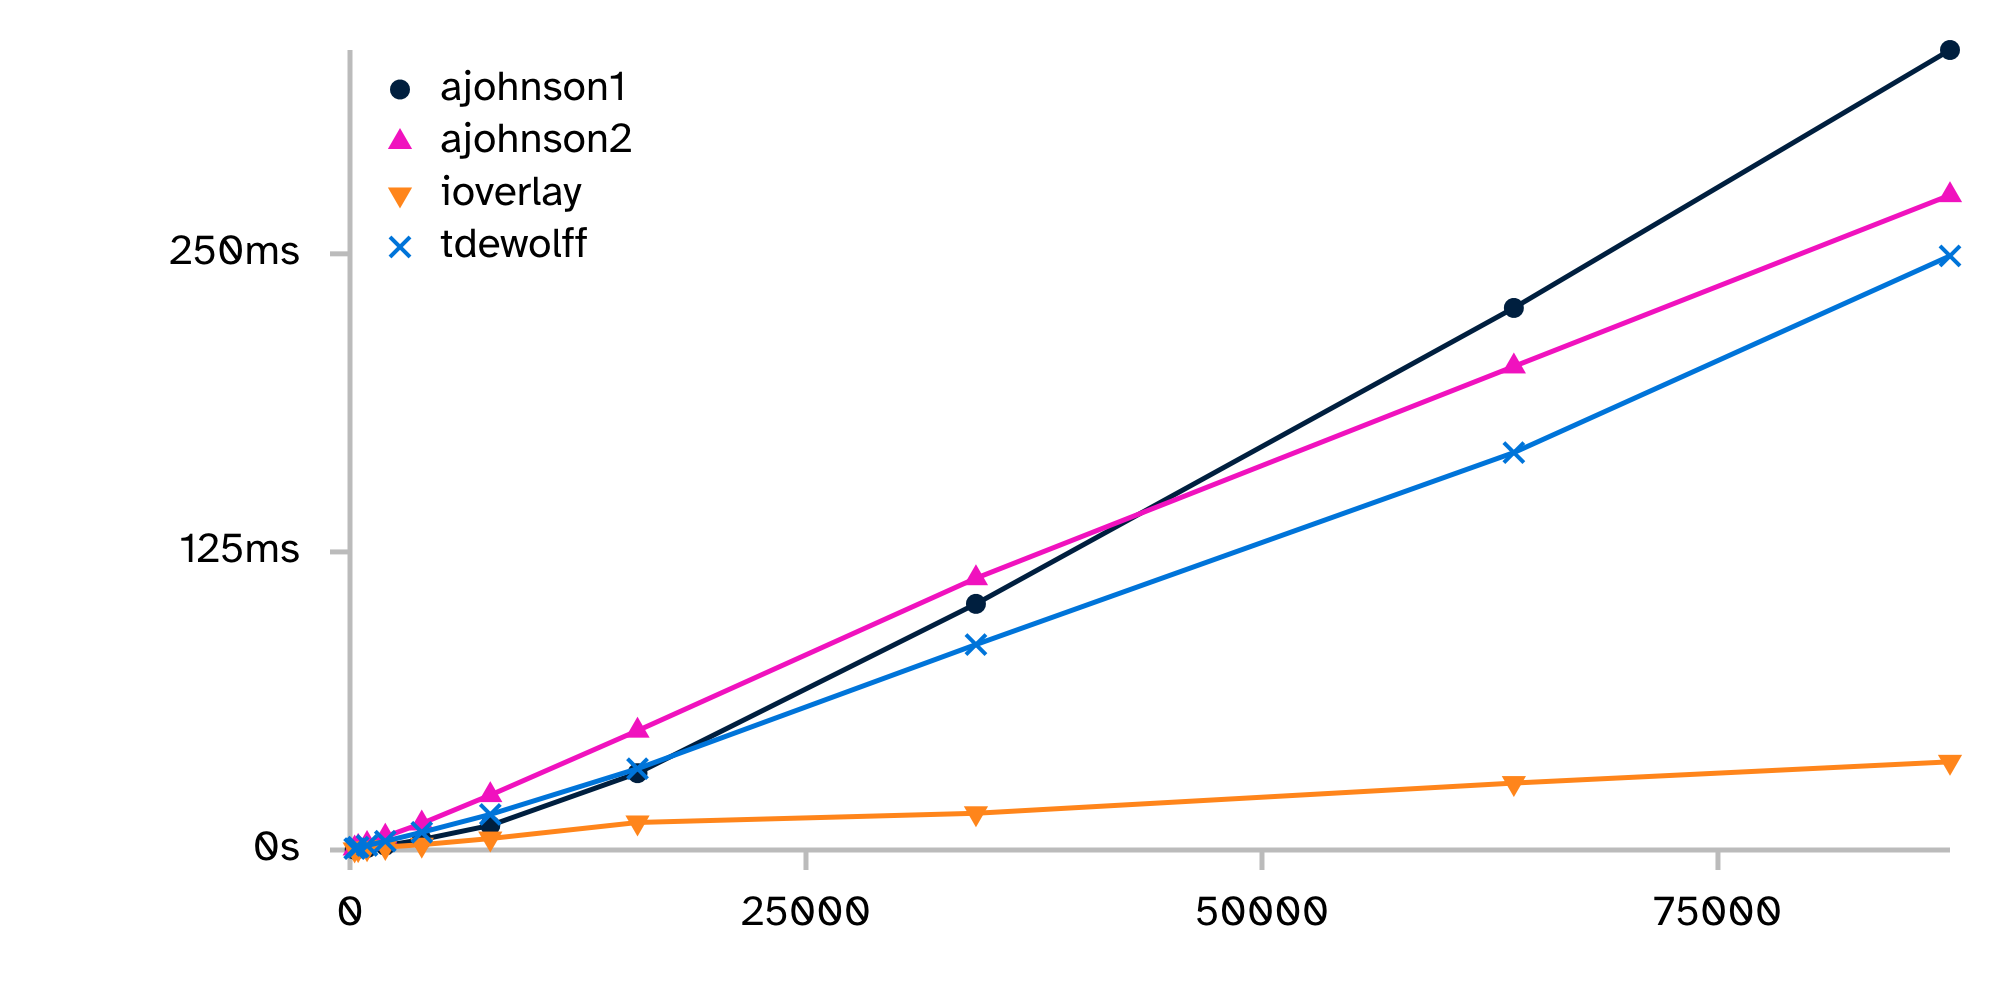
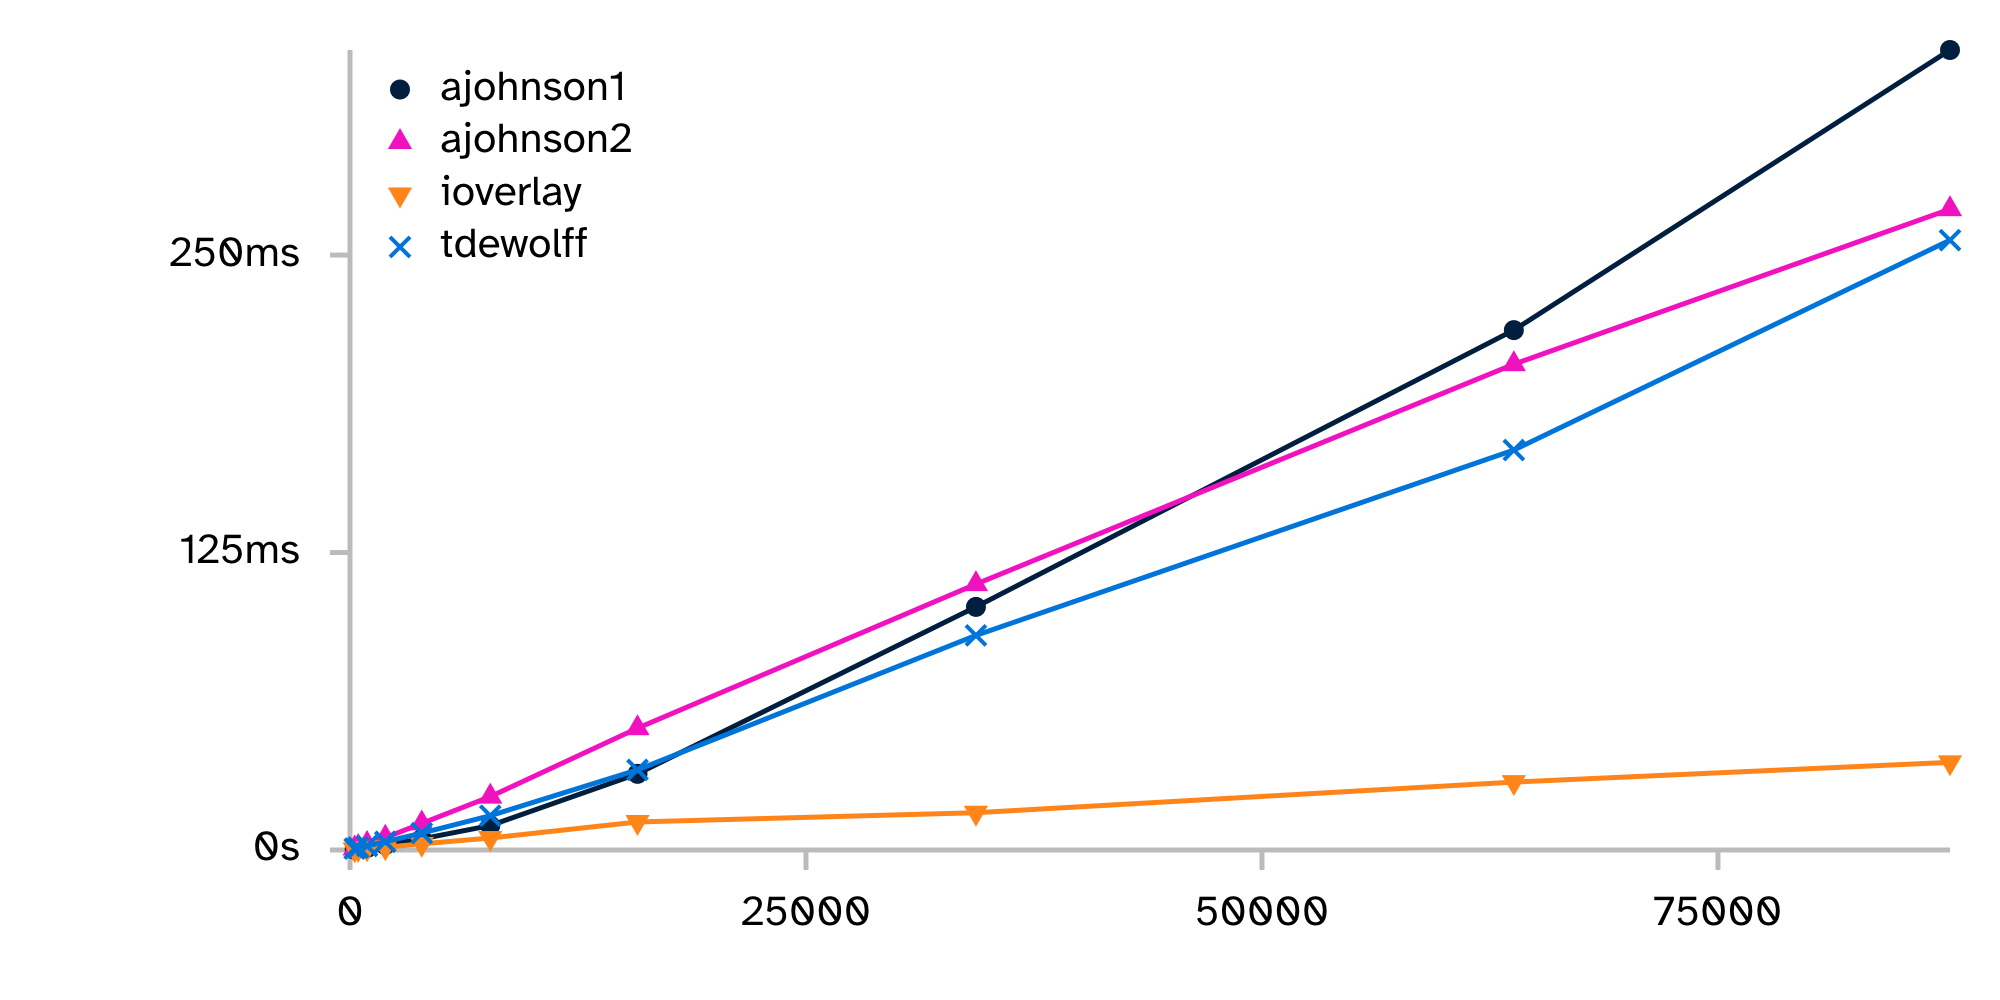
Update

diff --git a/README.md b/README.md
@@ -6,10 +6,10 @@ Benchmarks are performed with the Natural Earth 10m resolutions of countries fro
 
 | Library | 255 | 447 | 935 | 1935 | 3935 | 7692 | 15763 | 34318 | 63809 | 87721 |
 | --- | --- | --- | --- | --- | --- | --- | --- | --- | --- | --- |
-| [ajohnson1](http://www.angusj.com/delphi/clipper/documentation/Docs/Overview/_Body.htm) | **0.0002** | 0.0005 | 0.0008 | 0.0018 | 0.0044 | 0.0103 | 0.0322 | 0.1032 | 0.2273 | 0.3355 |
-| [ajohnson2](https://github.com/AngusJohnson/Clipper2) | 0.0007 | 0.0013 | 0.0025 | 0.0056 | 0.0111 | 0.0230 | 0.0500 | 0.1140 | 0.2028 | 0.2746 |
-| [ioverlay](https://github.com/iShape-Rust/iOverlay) | 0.0002 | **0.0004** | **0.0007** | **0.0012** | **0.0022** | **0.0048** | **0.0115** | **0.0154** | **0.0281** | **0.0370** |
-| [tdewolff](https://github.com/tdewolff/canvas) | 0.0006 | 0.0012 | 0.0019 | 0.0037 | 0.0074 | 0.0149 | 0.0341 | 0.0861 | 0.1666 | 0.2491 |
+| [ajohnson1](http://www.angusj.com/delphi/clipper/documentation/Docs/Overview/_Body.htm) | **0.0002** | 0.0006 | 0.0008 | 0.0021 | 0.0047 | 0.0103 | 0.0320 | 0.1022 | 0.2185 | 0.3362 |
+| [ajohnson2](https://github.com/AngusJohnson/Clipper2) | 0.0006 | 0.0012 | 0.0026 | 0.0052 | 0.0112 | 0.0224 | 0.0512 | 0.1117 | 0.2041 | 0.2693 |
+| [ioverlay](https://github.com/iShape-Rust/iOverlay) | 0.0003 | **0.0004** | **0.0007** | **0.0011** | **0.0026** | **0.0050** | **0.0118** | **0.0157** | **0.0285** | **0.0368** |
+| [tdewolff](https://github.com/tdewolff/canvas) | 0.0006 | 0.0010 | 0.0017 | 0.0035 | 0.0071 | 0.0144 | 0.0337 | 0.0902 | 0.1681 | 0.2563 |
 
 ![Boolean results graph](https://raw.githubusercontent.com/tdewolff/canvas_benchmarks/refs/heads/master/boolean/results.png)
 
